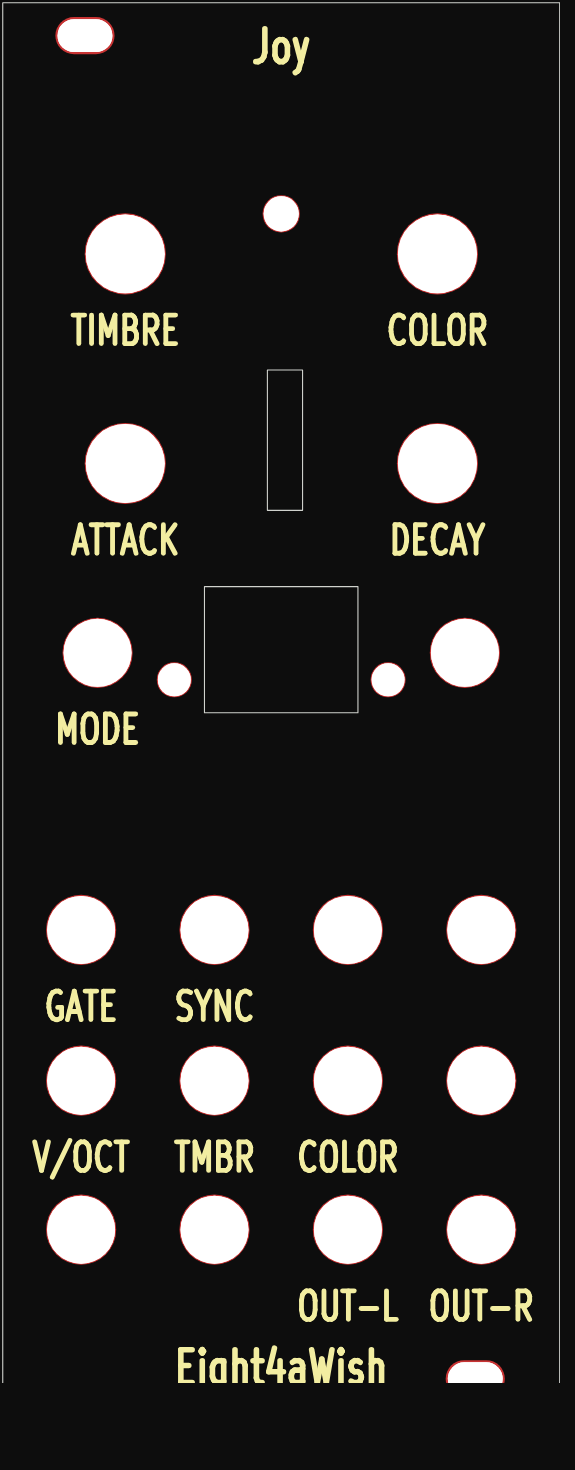
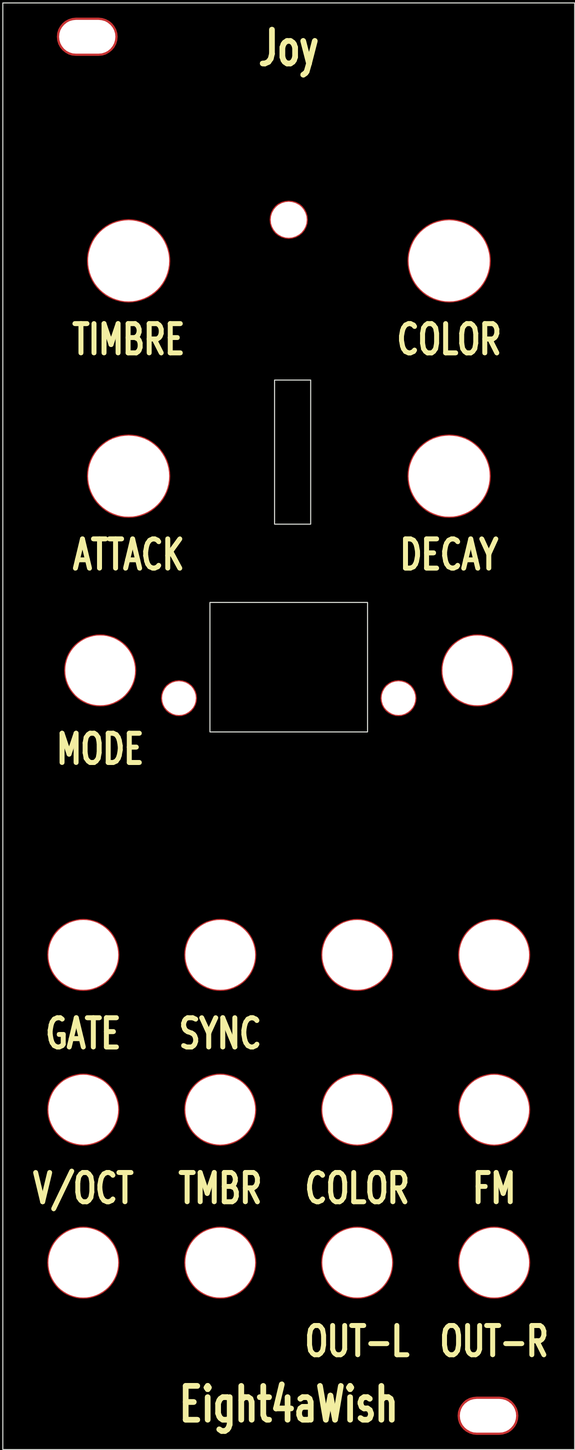
Regenerate Joy 10HP PCB faceplate with the FM label
daisy_braids.py now labels CV_8 "FM", so the board, gerbers and preview are
replotted from it. The only geometry change is the added F.Silkscreen text at
(43.65, 105.31); every other gerber differs solely in its date/version header
(replotted with kicad-cli 9.0.7 rather than 7.0.11). The deterministic UUIDs in
the .kicad_pcb shift by one from the extra text element.

Also documents the plot command behind preview.png, which was previously
undocumented and had to be reverse-engineered from the image's layer colours.

diff --git a/exports/pcb/README.md b/exports/pcb/README.md
@@ -33,6 +33,19 @@ The board is written in the KiCad 6/7 file format, which KiCad 7, 8 and 9 all
 open directly. Run the script with `--help` for the text-size, brand-margin and
 washer-pad options.
 
+`preview.png` is the same board plotted flat — front copper, front silkscreen
+and the outline, in KiCad's default theme colours (so the mask-free copper rings
+come out red and the silkscreen pale yellow) on a black background:
+
+```sh
+kicad-cli pcb export svg --mode-single -o preview.svg \
+    --layers F.Cu,F.SilkS,Edge.Cuts --page-size-mode 2 --exclude-drawing-sheet \
+    exports/pcb/joy_10hp/joy_10hp.kicad_pcb
+```
+
+then rasterised over black at 575 px wide. It is a picture of the plot, not of
+the finished board — the real panel is black mask with white lettering.
+
 ## What's in the design
 
 Taken verbatim from the printed panel (which in turn comes from Electrosmith's
